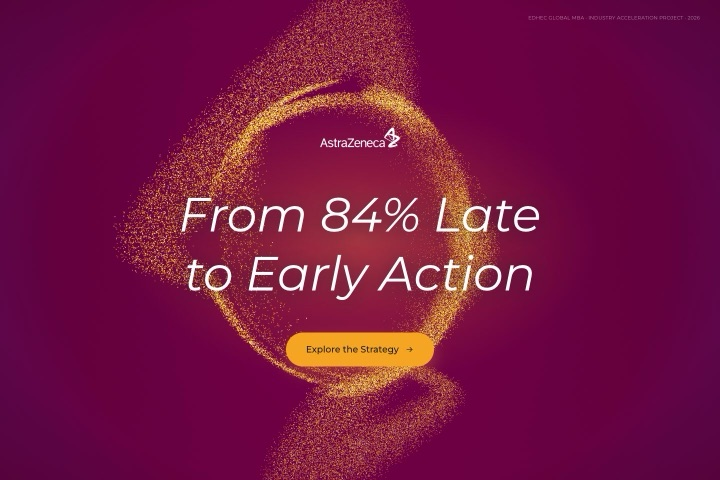
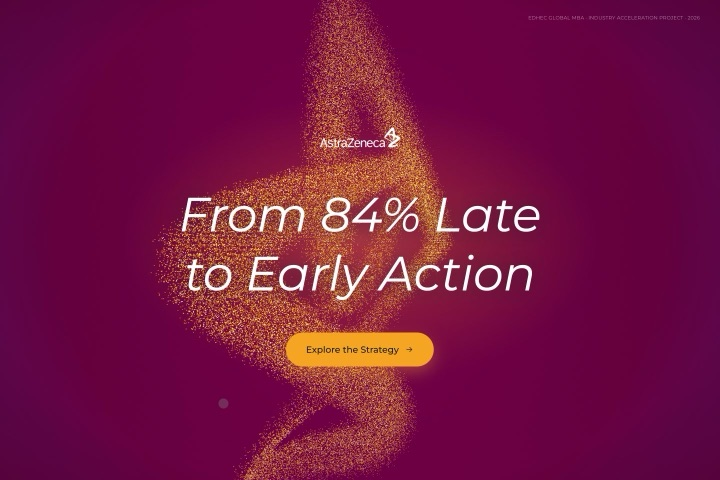
fix: AZ preview, settled hero frame

Changed region(s): [[0.1528, 0.0, 0.7028, 1.0], [0.3056, 0.8125, 0.3361, 0.8438]]

diff --git a/graphify-out/GRAPH_REPORT.md b/graphify-out/GRAPH_REPORT.md
@@ -1,7 +1,7 @@
-# Graph Report - .  (2026-07-07)
+# Graph Report - .  (2026-07-09)
 
 ## Corpus Check
-- 33 files · ~17,806 words
+- 33 files · ~17,667 words
 - Verdict: corpus is large enough that graph structure adds value.
 
 ## Summary